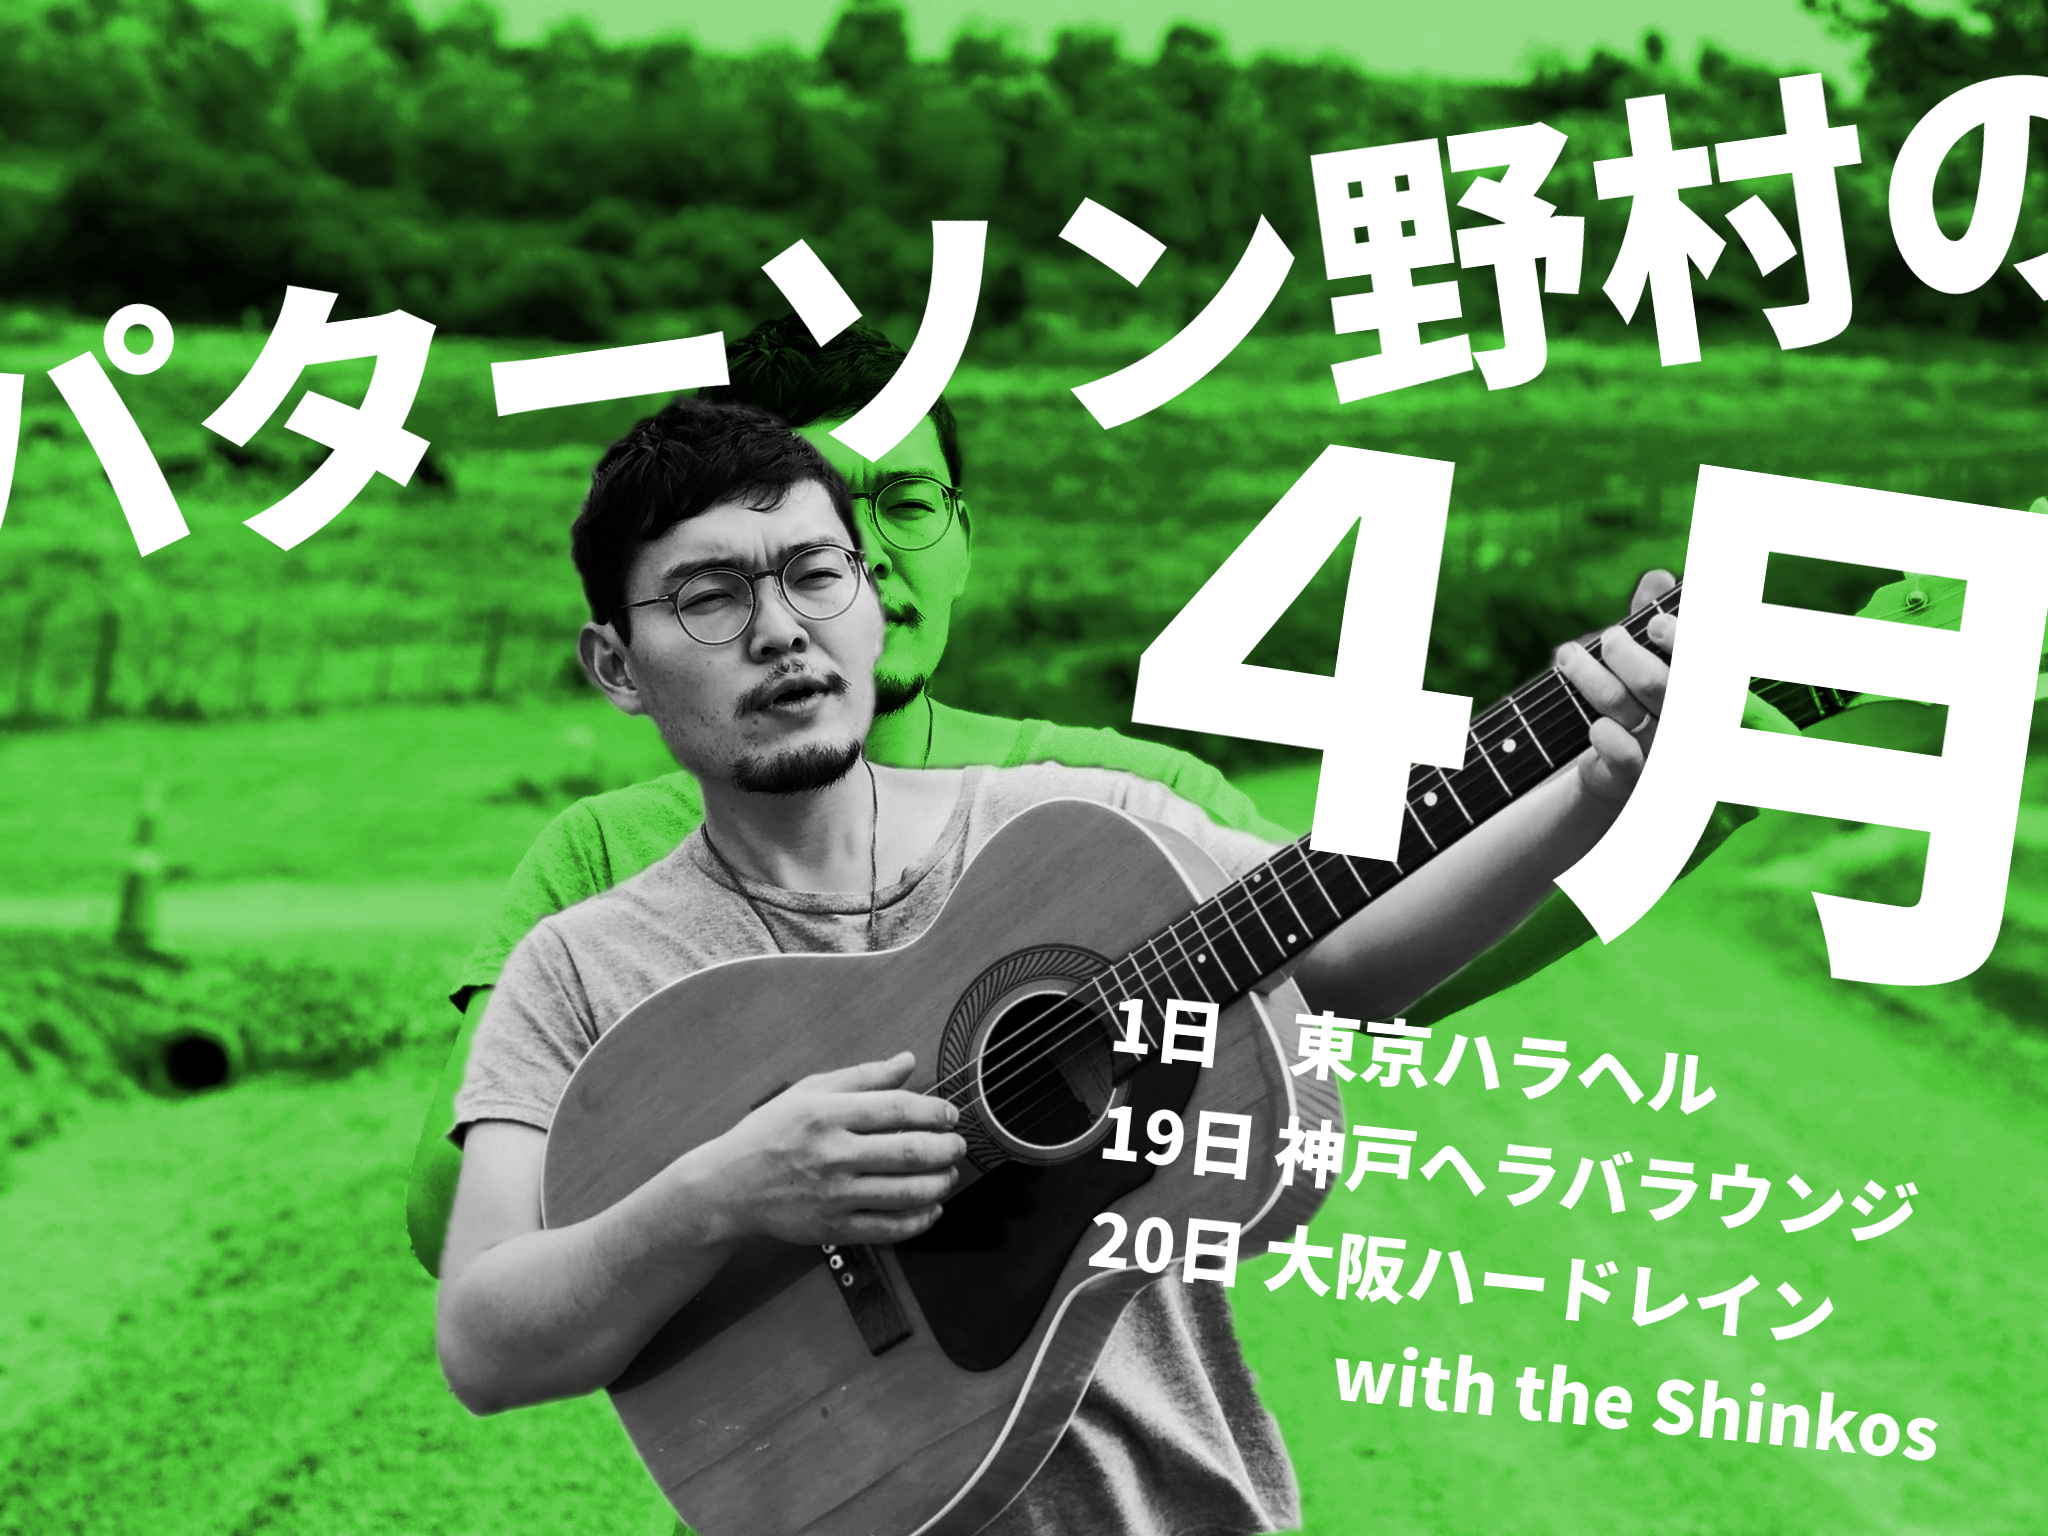
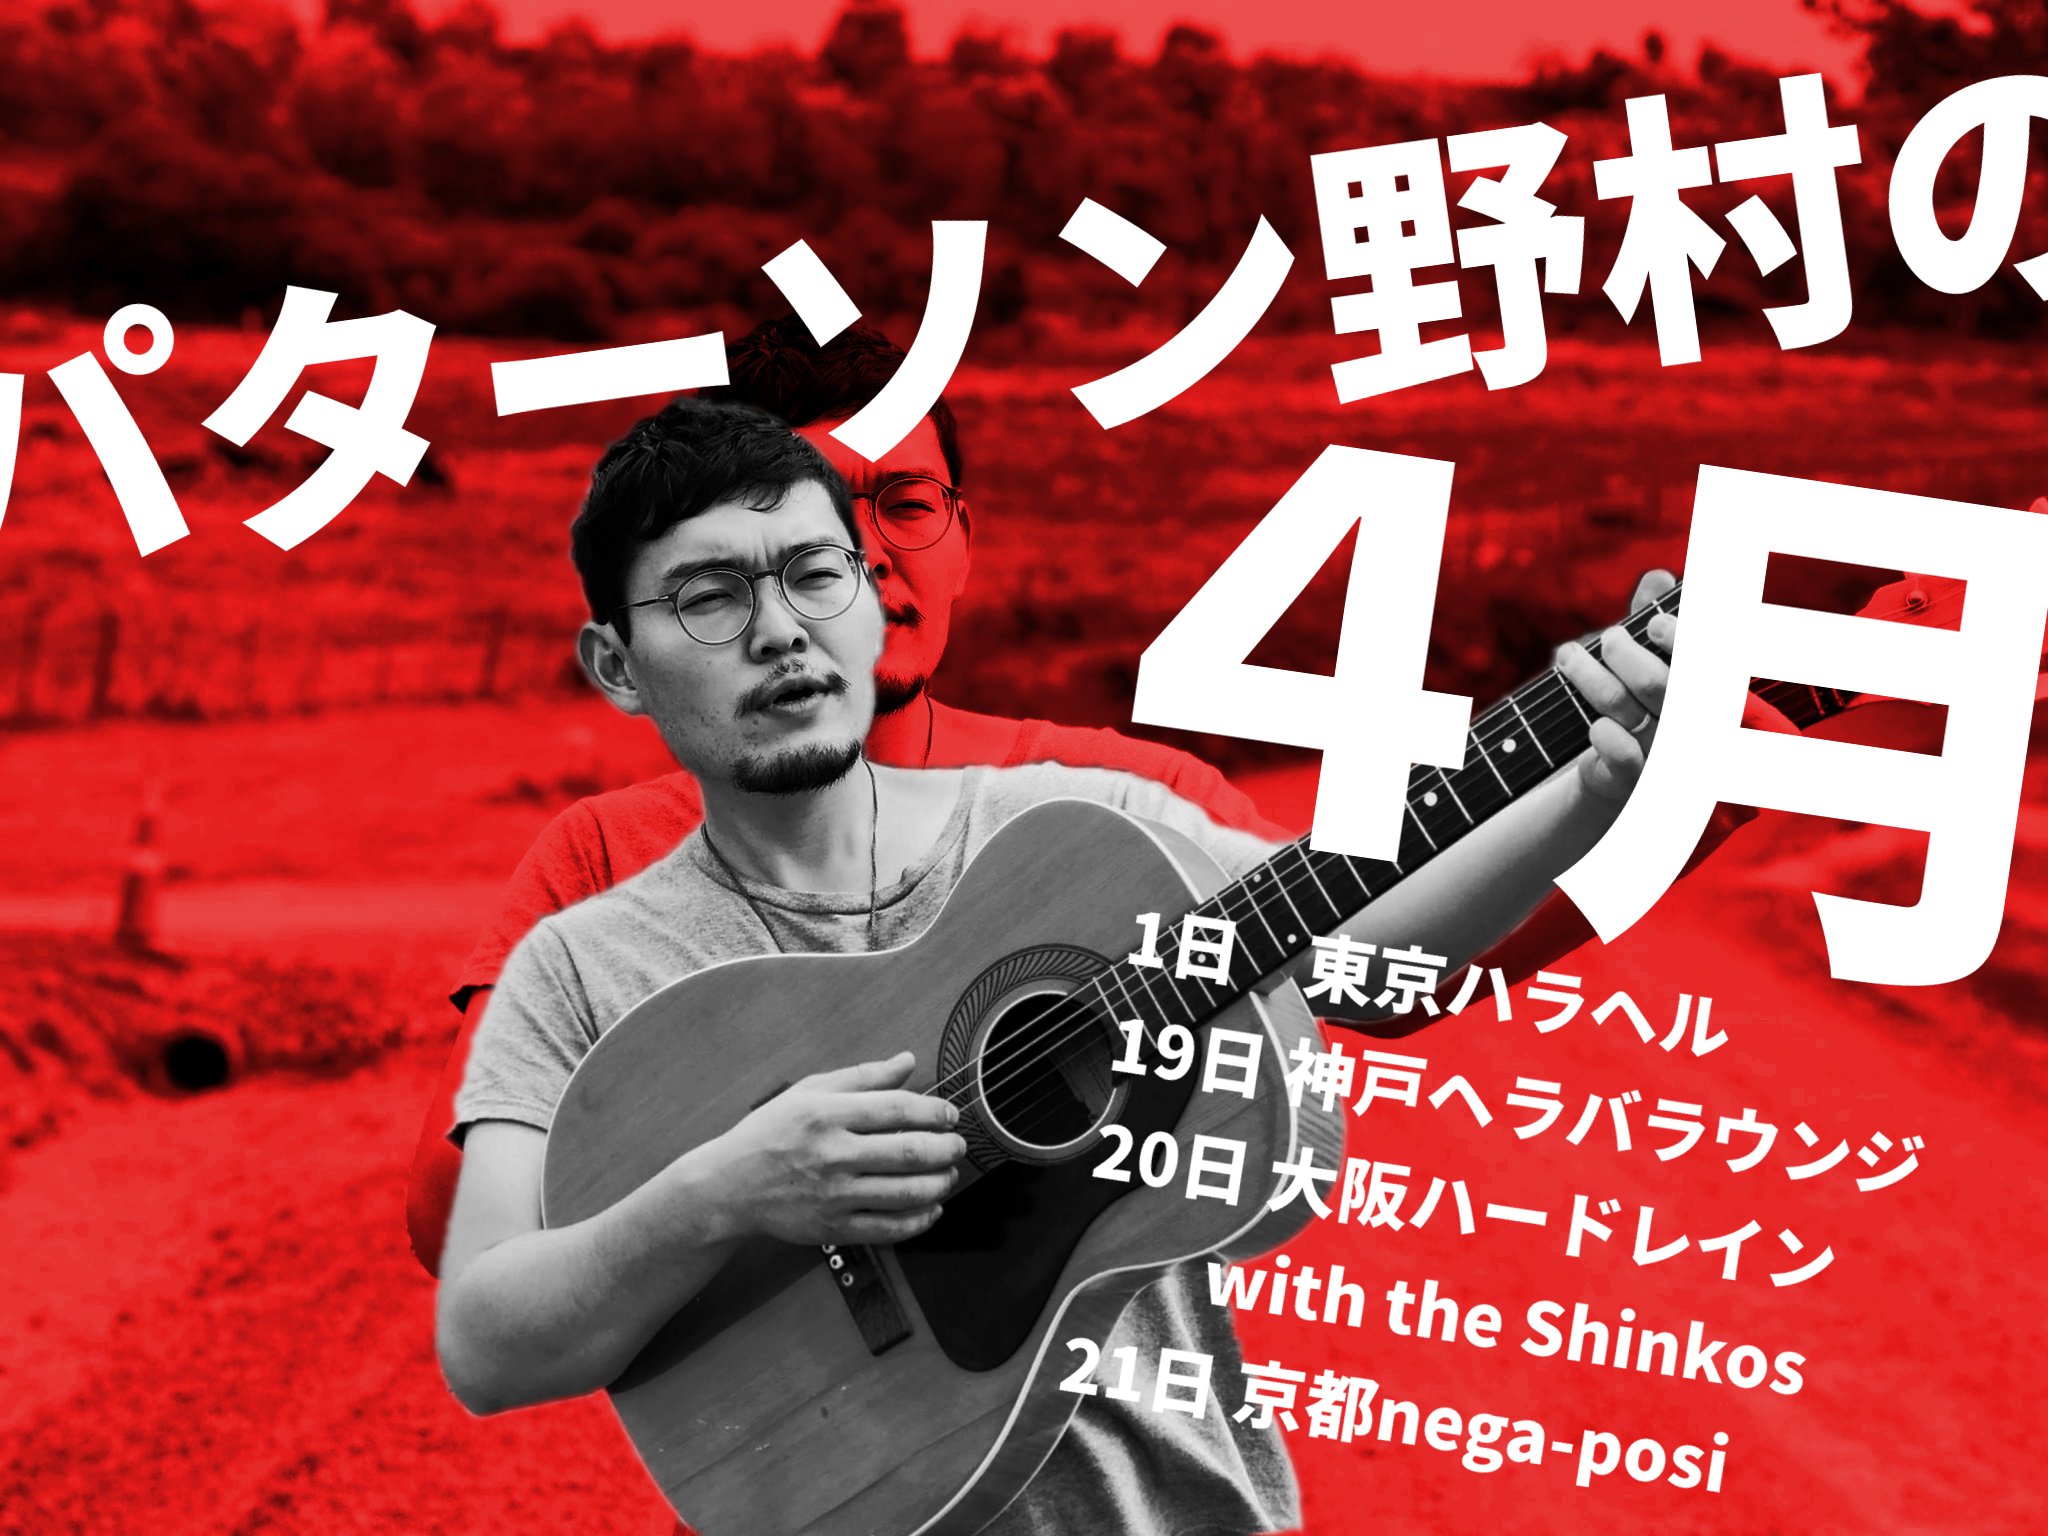
pic uploaded

diff --git a/assets/index.html b/assets/index.html
@@ -98,6 +98,7 @@
 	<p>4月1日東京<a href="https://www.facebook.com/halahelu">ハラヘル</a></p>
 	<p>4月19日神戸<a href="http://helluva.jp/">ヘラバラウンジ</a></p>
 	<p>4月20日大阪<a href="http://hardrain-web.net/">ハードレイン</a> with the Shinkos</p>
+	<p>4月21日京都<a href="www.negaposi.net">ネガポジ</a>
 	
 </div>
 

diff --git a/assets/index0.html b/assets/index0.html
@@ -98,6 +98,7 @@
 	<p>4月1日東京<a href="https://www.facebook.com/halahelu">ハラヘル</a></p>
 	<p>4月19日神戸<a href="http://helluva.jp/">ヘラバラウンジ</a></p>
 	<p>4月20日大阪<a href="http://hardrain-web.net/">ハードレイン</a> with the Shinkos</p>
+	<p>4月21日京都<a href="www.negaposi.net">ネガポジ</a>
 	
 </div>
 

diff --git a/index.html b/index.html
@@ -98,6 +98,7 @@
 	<p>4月1日東京<a href="https://www.facebook.com/halahelu">ハラヘル</a></p>
 	<p>4月19日神戸<a href="http://helluva.jp/">ヘラバラウンジ</a></p>
 	<p>4月20日大阪<a href="http://hardrain-web.net/">ハードレイン</a> with the Shinkos</p>
+	<p>4月21日京都<a href="www.negaposi.net">ネガポジ</a>
 	
 </div>
 
